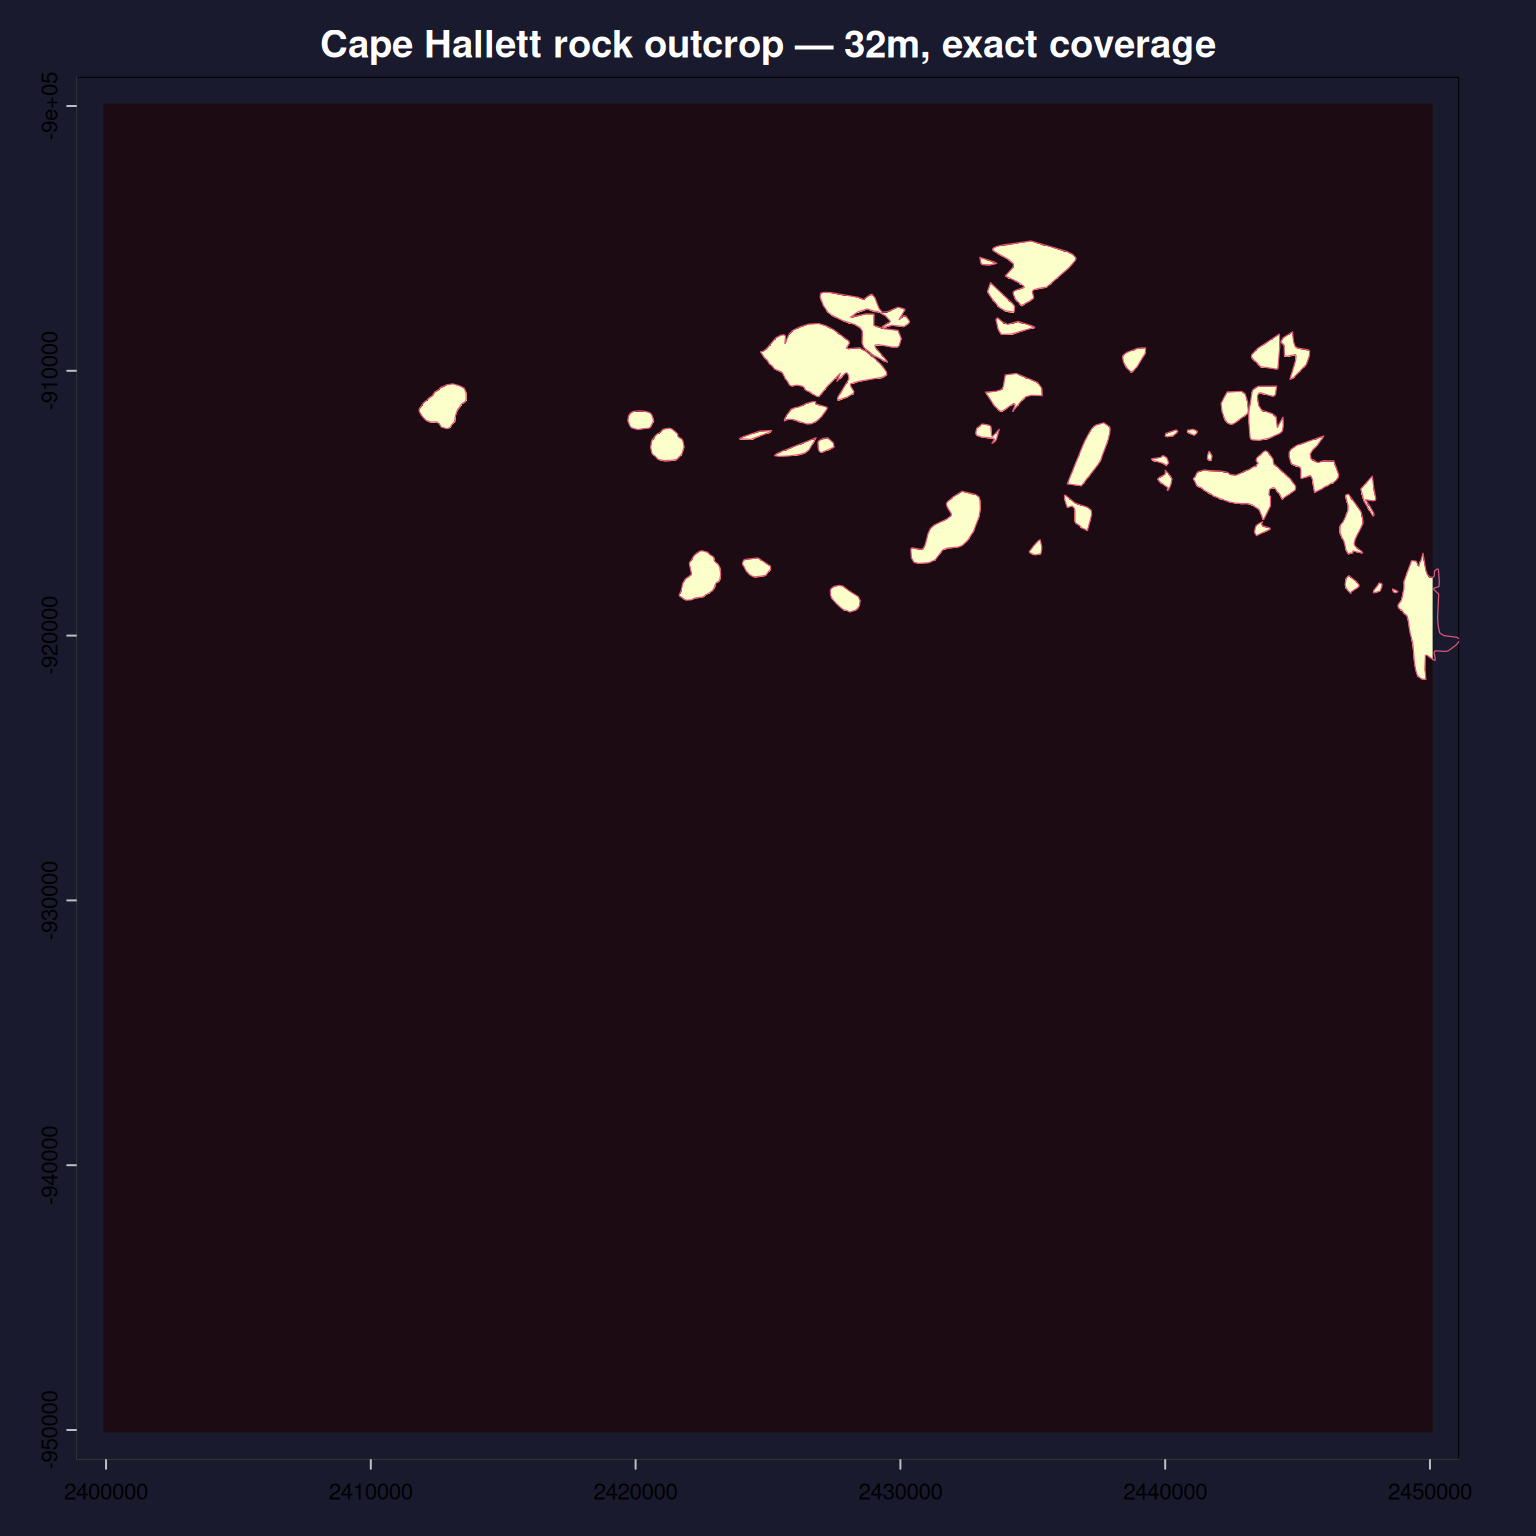
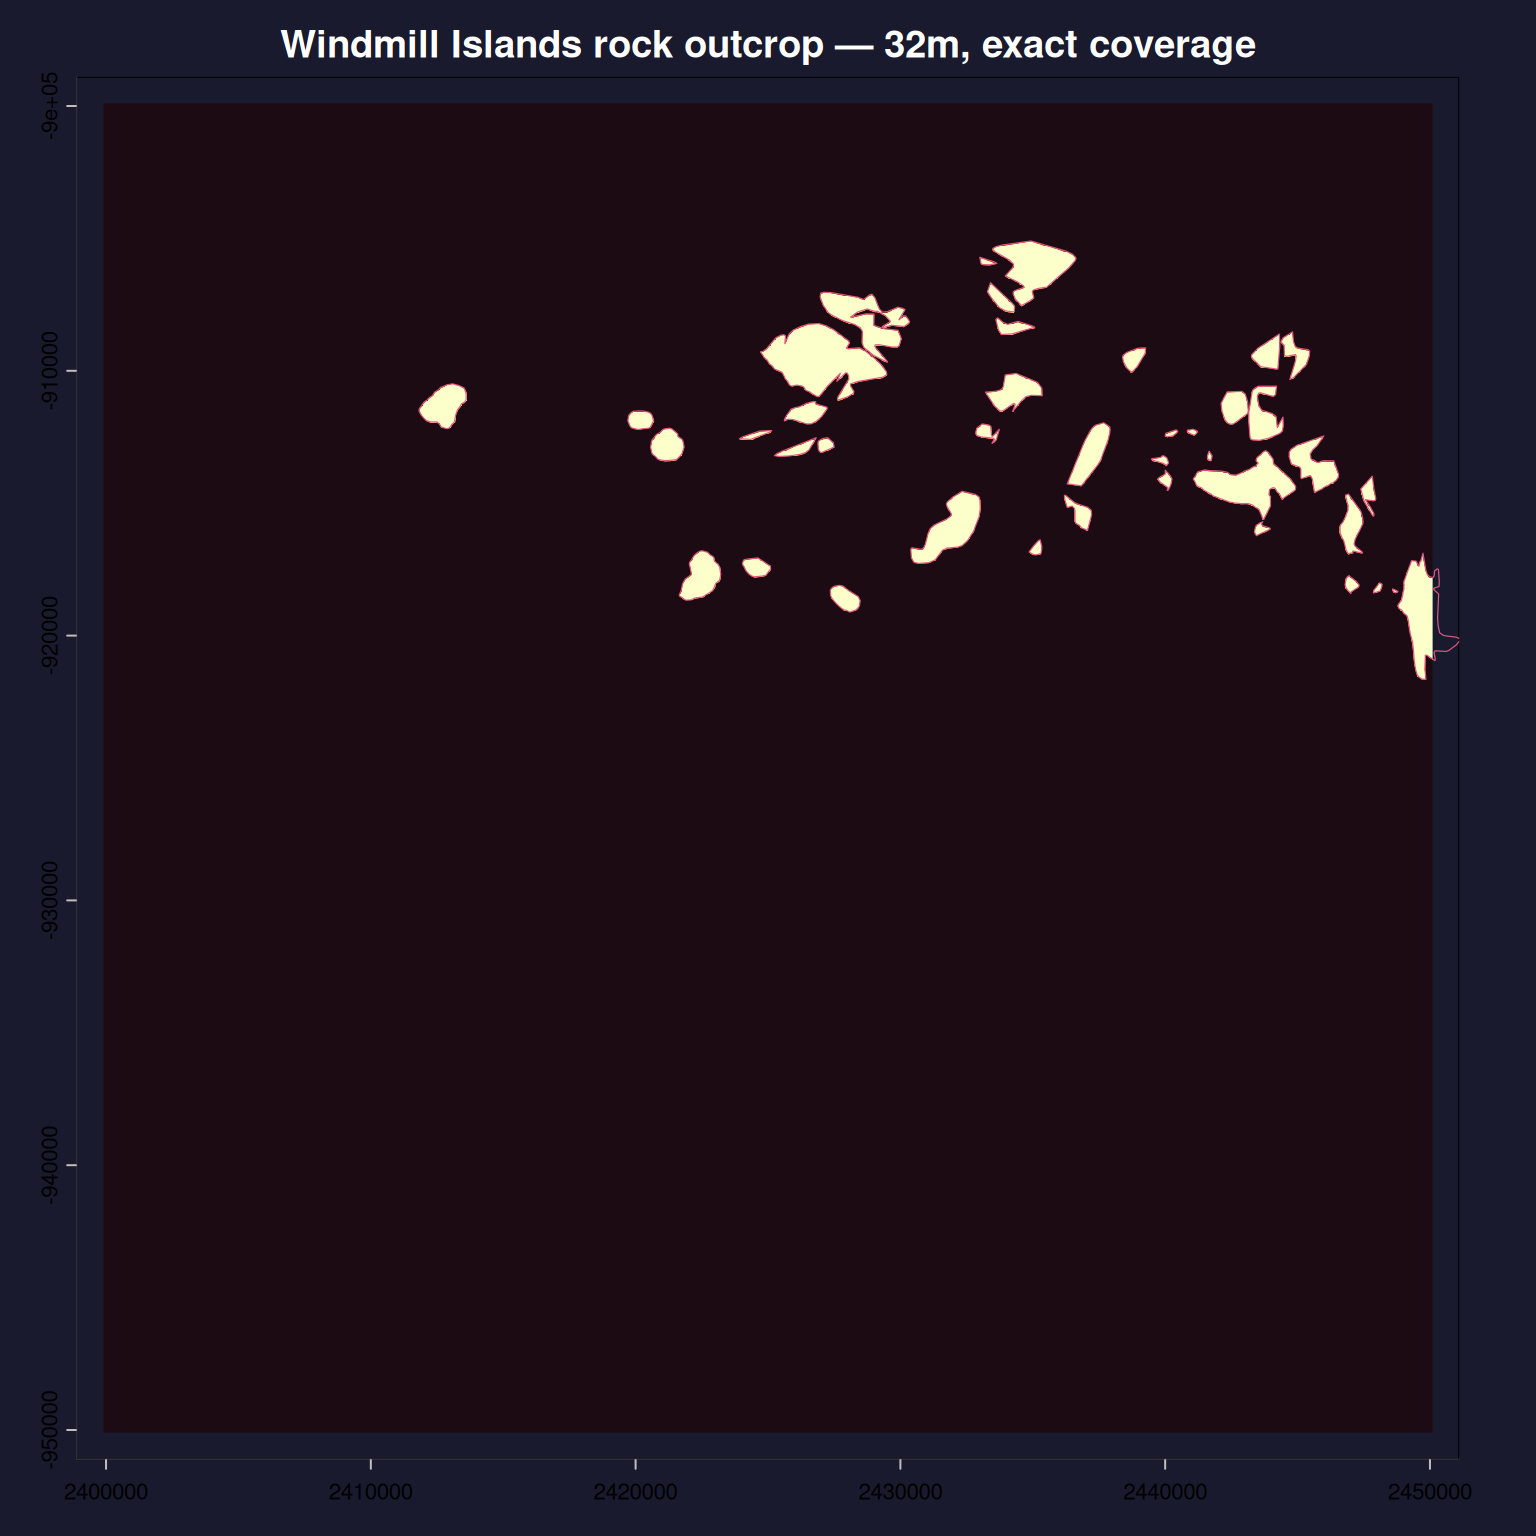
stray

Changed region(s): [[0.1875, 0.0, 0.8125, 0.0625]]

diff --git a/_site/posts/2026-08-19_antarctica-icefree-rasterizing/index.html b/_site/posts/2026-08-19_antarctica-icefree-rasterizing/index.html
@@ -478,7 +478,7 @@ Other layers: REMA_Mosaic_Index_v2_10m, REMA_Mosaic_Index_v2_32m</code></pre>
 <span id="cb13-6"><a href="#cb13-6" aria-hidden="true" tabindex="-1"></a>})</span></code></pre></div><button title="Copy to Clipboard" class="code-copy-button"><i class="bi"></i></button></div>
 <div class="cell-output cell-output-stdout">
 <pre><code>   user  system elapsed 
-  0.310   0.048   0.359 </code></pre>
+  0.296   0.046   0.341 </code></pre>
 </div>
 <div class="code-copy-outer-scaffold"><div class="sourceCode cell-code" id="cb15"><pre class="sourceCode r code-with-copy"><code class="sourceCode r"><span id="cb15-1"><a href="#cb15-1" aria-hidden="true" tabindex="-1"></a>ba</span></code></pre></div><button title="Copy to Clipboard" class="code-copy-button"><i class="bi"></i></button></div>
 <div class="cell-output cell-output-stdout">
@@ -501,7 +501,7 @@ Object size: 27 MB</code></pre>
 <span id="cb19-4"><a href="#cb19-4" aria-hidden="true" tabindex="-1"></a>})</span></code></pre></div><button title="Copy to Clipboard" class="code-copy-button"><i class="bi"></i></button></div>
 <div class="cell-output cell-output-stdout">
 <pre><code>   user  system elapsed 
-  4.639   0.290   4.929 </code></pre>
+  4.578   0.223   4.802 </code></pre>
 </div>
 <div class="code-copy-outer-scaffold"><div class="sourceCode cell-code" id="cb21"><pre class="sourceCode r code-with-copy"><code class="sourceCode r"><span id="cb21-1"><a href="#cb21-1" aria-hidden="true" tabindex="-1"></a>be</span></code></pre></div><button title="Copy to Clipboard" class="code-copy-button"><i class="bi"></i></button></div>
 <div class="cell-output cell-output-stdout">
@@ -555,7 +555,7 @@ Object size: 27 MB</code></pre>
 <span id="cb27-2"><a href="#cb27-2" aria-hidden="true" tabindex="-1"></a></span>
 <span id="cb27-3"><a href="#cb27-3" aria-hidden="true" tabindex="-1"></a><span class="fu">par</span>(<span class="at">bg =</span> <span class="st">"#1a1a2e"</span>, <span class="at">mar =</span> <span class="fu">c</span>(<span class="dv">3</span>, <span class="dv">3</span>, <span class="dv">2</span>, <span class="dv">1</span>))</span>
 <span id="cb27-4"><a href="#cb27-4" aria-hidden="true" tabindex="-1"></a><span class="fu">plot</span>(tiles[idx, ], <span class="at">col =</span> <span class="cn">NA</span>, <span class="at">border =</span> <span class="cn">NA</span>,</span>
-<span id="cb27-5"><a href="#cb27-5" aria-hidden="true" tabindex="-1"></a>     <span class="at">main =</span> <span class="st">"Cape Hallett rock outcrop — 32m, exact coverage"</span>,</span>
+<span id="cb27-5"><a href="#cb27-5" aria-hidden="true" tabindex="-1"></a>     <span class="at">main =</span> <span class="st">"Windmill Islands rock outcrop — 32m, exact coverage"</span>,</span>
 <span id="cb27-6"><a href="#cb27-6" aria-hidden="true" tabindex="-1"></a>     <span class="at">col.main =</span> <span class="st">"white"</span>, <span class="at">col.axis =</span> <span class="st">"grey60"</span>)</span>
 <span id="cb27-7"><a href="#cb27-7" aria-hidden="true" tabindex="-1"></a>ximage<span class="sc">::</span><span class="fu">ximage</span>(mc, tile_ex, <span class="at">add =</span> <span class="cn">TRUE</span>,</span>
 <span id="cb27-8"><a href="#cb27-8" aria-hidden="true" tabindex="-1"></a>               <span class="at">col =</span> <span class="fu">hcl.colors</span>(<span class="dv">64</span>, <span class="st">"Lajolla"</span>, <span class="at">rev =</span> <span class="cn">TRUE</span>))</span>

diff --git a/_site/index.html b/_site/index.html
@@ -402,7 +402,7 @@ window.Quarto = {
 
 <div class="quarto-listing quarto-listing-container-default" id="listing-listing">
 <div class="list quarto-listing-default">
[2 lines of base64/hex data omitted]
 <div class="thumbnail"><a href="./posts/2026-08-19_antarctica-icefree-rasterizing/index.html" class="no-external">
 
 <p class="card-img-top"><img loading='lazy' src="posts/2026-08-19_antarctica-icefree-rasterizing/index_files/figure-html/tile-coverage-1.png"  class="thumbnail-image card-img"/></p>
